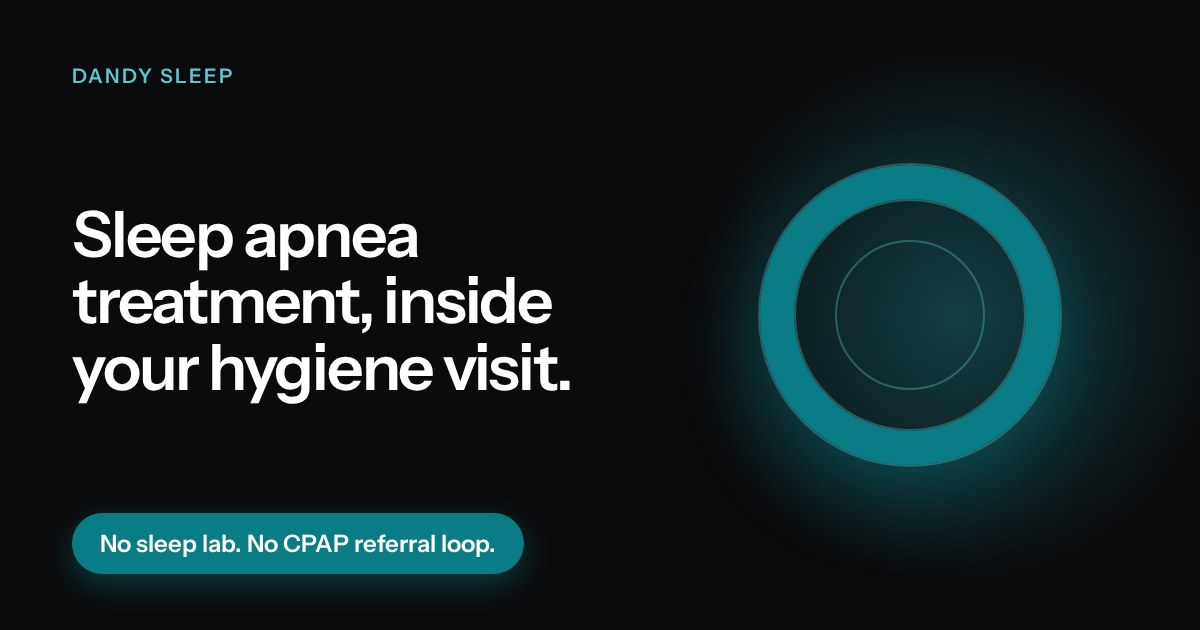
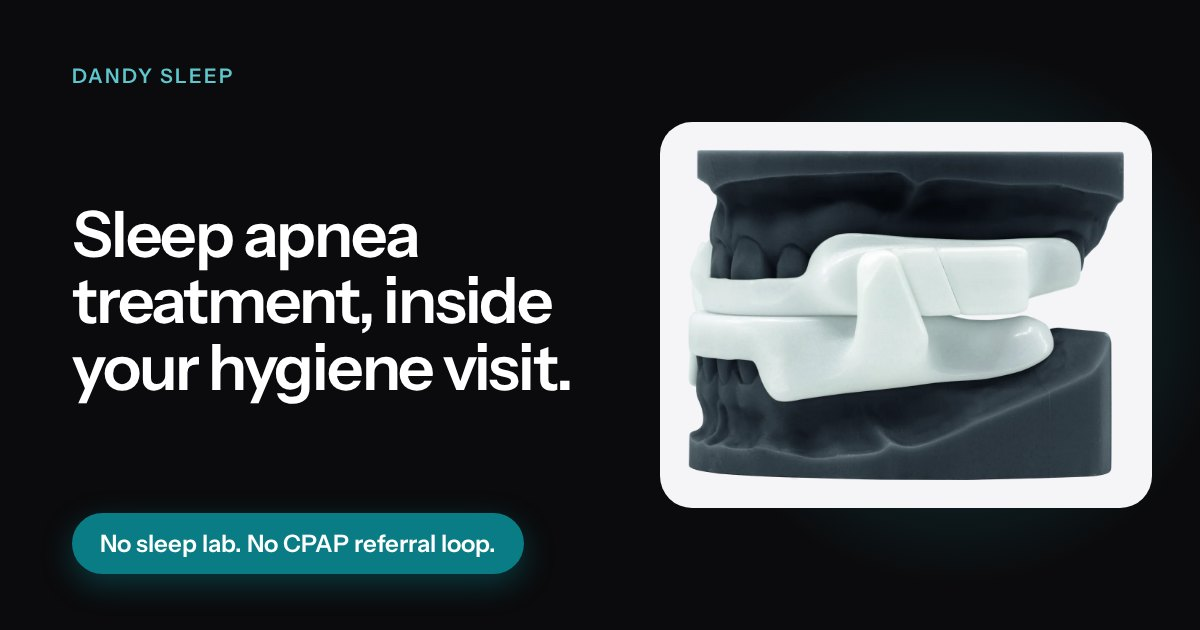
Sleep page: Clarity Sleep Ring naming, hero product image, 'Two premium nylon appliances' device section, OG image with device

Changed region(s): [[0.5242, 0.181, 0.9867, 0.8143]]

diff --git a/sleep/index.html b/sleep/index.html
@@ -5,7 +5,7 @@
 <meta name="viewport" content="width=device-width, initial-scale=1.0">
 <meta name="robots" content="noindex, nofollow">
 <title>Dandy Sleep — Sleep Apnea Treatment, Inside Your Hygiene Visit</title>
-<meta name="description" content="Screen in the chair, the patient takes a ring home for one night, a sleep physician reviews it virtually. You scan once, Dandy fabricates the appliance, you deliver and titrate.">
+<meta name="description" content="Screen in the chair, the patient takes the Clarity Sleep Ring home for one night, a sleep physician reviews it virtually. You scan once, Dandy fabricates the appliance, you deliver and titrate.">
 <link rel="icon" href="../img/favicon.svg" type="image/svg+xml">
 <meta property="og:type" content="website">
 <meta property="og:url" content="https://kristidillon.github.io/one-case/sleep/">
@@ -383,7 +383,7 @@ footer .rep{color:var(--ink);font-weight:500}
 .support-note a,.prog-support a{color:var(--accent-ink);font-weight:600;text-decoration:underline;text-underline-offset:2px}
 .chk{display:grid;grid-template-columns:1fr 1fr;gap:20px;margin-top:52px}
 @media(max-width:820px){.chk{grid-template-columns:1fr}}
-.chk>div{background:var(--ground);border-radius:24px;padding:clamp(24px,3vw,32px)}
+.chk>div{background:var(--white);border-radius:24px;padding:clamp(24px,3vw,32px)}
 .chk h3{font-size:20px}
 .chk ul{list-style:none;margin-top:14px}
 .chk li{padding:12px 0;border-top:1px solid var(--hair);font-size:16px;line-height:1.4;color:var(--ink-2)}
@@ -429,6 +429,36 @@ footer .back{display:inline-block;margin-top:10px;color:var(--accent-ink);font-w
 .hfd{margin-top:14px;font-size:13px;line-height:1.55;color:var(--muted)}
 .hfd a{display:inline-flex;align-items:center;min-height:44px;padding:0 4px;color:var(--accent-ink);font-weight:600;text-decoration:underline;text-underline-offset:2px}
 .sr-only{position:absolute;width:1px;height:1px;padding:0;margin:-1px;overflow:hidden;clip:rect(0,0,0,0);white-space:nowrap;border:0}
+
+/* hero split + devices */
+.hero-split{padding:clamp(56px,8vw,112px) 0 clamp(56px,7vw,96px)}
+.hero-grid{display:grid;grid-template-columns:1.05fr .95fr;gap:clamp(28px,4vw,56px);align-items:center}
+.hero-grid>*{min-width:0}
+.hero-split .hero-text{text-align:left}
+.hero-split h1{margin:18px 0 0;font-size:clamp(38px,5.4vw,64px)}
+.hero-split .lede{margin:22px 0 0;max-width:560px}
+.hero-split .nocap{margin:20px 0 0}
+.hero-split .cta{justify-content:flex-start}
+.hero-media{margin:0;background:var(--ground);border-radius:28px;padding:clamp(16px,2.4vw,28px)}
+.hero-media img{width:100%;height:auto}
+.hero-media figcaption{margin-top:10px;font-size:13px;color:var(--muted);text-align:center}
+@media(max-width:860px){.hero-grid{grid-template-columns:1fr}.hero-split .hero-text{text-align:center}.hero-split .lede{margin-left:auto;margin-right:auto}.hero-split .cta{justify-content:center}.hero-media{max-width:520px;margin:0 auto;width:100%}}
+.sr-only{position:absolute;width:1px;height:1px;padding:0;margin:-1px;overflow:hidden;clip:rect(0,0,0,0);white-space:nowrap;border:0}
+.devs{display:grid;grid-template-columns:1fr 1fr;gap:20px;margin-top:52px}
+@media(max-width:820px){.devs{grid-template-columns:1fr}}
+.dev{background:var(--ground);border-radius:28px;overflow:hidden;display:flex;flex-direction:column;min-width:0}
+.dev-img{padding:clamp(18px,3vw,32px) clamp(18px,3vw,32px) 0}
+.dev-img img{width:100%;height:auto;aspect-ratio:1200/880;object-fit:contain}
+.dev-body{padding:clamp(20px,3vw,32px)}
+.dev-badge{display:inline-block;margin-bottom:10px;font-size:12px;font-weight:600;letter-spacing:.06em;text-transform:uppercase;color:var(--accent-ink);background:var(--accent-soft);padding:5px 11px;border-radius:999px}
+.dev-body p{margin-top:10px;font-size:15px;color:var(--ink-2)}
+.dev-body .dev-lbl{margin-top:20px;font-size:12px;font-weight:600;letter-spacing:.08em;text-transform:uppercase;color:var(--muted)}
+.dev-body ul{list-style:none;margin-top:6px}
+.dev-body li{position:relative;padding:9px 0 9px 22px;border-top:1px solid var(--hair);font-size:15px;line-height:1.4}
+.dev-body li:first-child{border-top:0}
+.dev-body li::before{content:"";position:absolute;left:2px;top:15px;width:8px;height:8px;border-radius:50%;background:var(--accent)}
+.dev-more{margin-top:26px;text-align:center}
+.dev-more a{display:inline-flex;align-items:center;gap:6px;min-height:44px;padding:0 8px;color:var(--accent-ink);font-weight:600;text-decoration:underline;text-underline-offset:3px}
 </style>
 </head>
 <body>
@@ -439,6 +469,7 @@ footer .back{display:inline-block;margin-top:10px;color:var(--accent-ink);font-w
     <div class="nav-links">
       <a href="../">&larr; Main page</a>
       <a href="#how">How it works</a>
+      <a href="#devices">Devices</a>
       <a href="#checklist">Airway checklist</a>
       <a href="#terms">Program terms</a>
       <a href="#contact">Contact</a>
@@ -448,11 +479,12 @@ footer .back{display:inline-block;margin-top:10px;color:var(--accent-ink);font-w
 </nav>
 
 <!-- ================= HERO ================= -->
-<header class="hero center" id="top">
-  <div class="wrap">
+<header class="hero hero-split" id="top">
+  <div class="wrap hero-grid">
+   <div class="hero-text">
     <p class="eyebrow rv">Dandy Sleep</p>
     <h1 class="rv d1">Sleep apnea treatment, inside your hygiene visit.</h1>
-    <p class="lede rv d2">Screen in the chair. Patient takes a ring home for one night. A sleep physician reviews it virtually. You scan once, Dandy fabricates the appliance, you deliver and titrate.</p>
+    <p class="lede rv d2">Screen in the chair. Patient takes the Clarity Sleep Ring home for one night. A sleep physician reviews it virtually. You scan once, Dandy fabricates the appliance, you deliver and titrate.</p>
     <p class="nocap rv d2">No sleep lab. No CPAP referral loop. No capital equipment.</p>
     <p class="seen rv d2">Your team is already seeing the signs every day.</p>
     <div class="cta rv d3">
@@ -461,6 +493,11 @@ footer .back{display:inline-block;margin-top:10px;color:var(--accent-ink);font-w
         <svg viewBox="0 0 16 16" fill="none" stroke="currentColor" stroke-width="1.8" stroke-linecap="round" stroke-linejoin="round"><path d="M3 8h10M9 4l4 4-4 4"/></svg>
       </a>
     </div>
+   </div>
+   <figure class="hero-media rv d2">
+     <img src="../img/sleep-freedom-mad.webp" width="1200" height="906" fetchpriority="high" decoding="async" alt="Dandy Freedom Nylon MAD, a white metal-free mandibular advancement device, shown on a dental model">
+     <figcaption>Freedom Nylon MAD &middot; one of two premium nylon appliances</figcaption>
+   </figure>
   </div>
 </header>
 
@@ -476,9 +513,9 @@ footer .back{display:inline-block;margin-top:10px;color:var(--accent-ink);font-w
       <div class="hw rv">
         <div class="hw-main">
           <div class="hw-n">1</div>
-          <div><p class="hw-when">When your kit arrives</p><h3>Kit arrives</h3><p class="hw-desc">Patient-facing materials go up in the office (includes a sleep test deposit waiver). Sleep Rings are ready to send home.</p></div>
+          <div><p class="hw-when">When your kit arrives</p><h3>Kit arrives</h3><p class="hw-desc">Patient-facing materials go up in the office (includes a sleep test deposit waiver). Clarity Sleep Rings are ready to send home.</p></div>
         </div>
-        <div class="hw-res"><p class="hw-lbl">Dandy gives you</p><ul><li><b>Patient materials</b><span>Informational materials for display and handout; includes sleep test deposit waiver.</span></li><li><b>Sleep Rings</b><span>How to use your home sleep tests.</span></li></ul></div>
+        <div class="hw-res"><p class="hw-lbl">Dandy gives you</p><ul><li><b>Patient materials</b><span>Informational materials for display and handout; includes sleep test deposit waiver.</span></li><li><b>Clarity Sleep Rings</b><span>How to use your home sleep tests.</span></li></ul></div>
       </div>
       <div class="hw rv">
         <div class="hw-main">
@@ -520,8 +557,49 @@ footer .back{display:inline-block;margin-top:10px;color:var(--accent-ink);font-w
   </div>
 </section>
 
+<!-- ================= DEVICES ================= -->
+<section id="devices">
+  <div class="wrap">
+    <div class="narrow center">
+      <p class="eyebrow rv">Premium mandibular advancement devices</p>
+      <h2 class="rv d1">Two premium nylon appliances.</h2>
+      <p class="lede rv d2">Two premium options so you can personalize treatment for every patient. Both feature 0.5 mm incremental adjustments and lightweight, metal-free construction.</p>
+    </div>
+    <div class="devs">
+      <article class="dev rv">
+        <div class="dev-img"><img src="../img/sleep-preferred-mad.webp" width="1200" height="838" loading="lazy" decoding="async" alt="Dandy Preferred Nylon MAD, a white two-piece traction-style mandibular advancement device, shown on a dental model"></div>
+        <div class="dev-body">
+          <span class="dev-badge">Best fit for most patients</span>
+          <h3>Preferred Nylon MAD</h3>
+          <p>The Preferred Nylon MAD is a traction-style advancement system designed to encourage mouth closure during sleep. It supports nasal breathing while minimizing mandibular drop. The lightweight two-piece nylon construction offers exceptional comfort with a completely metal-free design and minimal bulk.</p>
+          <p class="dev-lbl">Recommended for patients with</p>
+          <ul>
+            <li>Mouth breathing tendencies</li>
+            <li>TMJ sensitivity</li>
+            <li>A need for a durable nylon alternative with greater titration range and adjustability</li>
+          </ul>
+        </div>
+      </article>
+      <article class="dev rv d1">
+        <div class="dev-img"><img src="../img/sleep-freedom-mad.webp" width="1200" height="906" loading="lazy" decoding="async" alt="Dandy Freedom Nylon MAD, a white dorsal-fin push-style mandibular advancement device, shown on a dental model"></div>
+        <div class="dev-body">
+          <h3>Freedom Nylon MAD</h3>
+          <p>The dorsal fin push-style mechanism on the Freedom Nylon MAD allows for greater mandibular opening freedom during sleep. This design maintains effective advancement and precise titration capabilities. The lightweight, metal-free nylon design improves patient comfort and allows for easier speaking and drinking compared to traditional appliances.</p>
+          <p class="dev-lbl">Recommended for patients with</p>
+          <ul>
+            <li>A desire for greater jaw mobility</li>
+            <li>The need for posterior comfort</li>
+            <li>A preference for simplified adjustment capabilities</li>
+          </ul>
+        </div>
+      </article>
+    </div>
+    <p class="dev-more rv"><a href="https://www.meetdandy.com/labs/sleep-device?utm_source=one-case&amp;utm_medium=landing" target="_blank" rel="noopener">See the devices on meetdandy.com <span aria-hidden="true">&#8599;</span><span class="sr-only"> (opens in a new tab)</span></a></p>
+  </div>
+</section>
+
 <!-- ================= CHECKLIST ================= -->
-<section id="checklist">
+<section class="band" id="checklist">
   <div class="wrap">
     <div class="narrow center">
       <p class="eyebrow rv">What your hygienist runs</p>
@@ -556,7 +634,7 @@ footer .back{display:inline-block;margin-top:10px;color:var(--accent-ink);font-w
       </div>
     </div>
     <div class="says rv">
-      <div class="says-h"><p class="step-k">3 &middot; The ring</p><h3>The Solution</h3><p>Offer a low-friction path to clarity. Patients want to feel better; you are providing the tool to get them there.</p></div>
+      <div class="says-h"><p class="step-k">3 &middot; The Clarity Sleep Ring</p><h3>The Solution</h3><p>Offer a low-friction path to clarity. Patients want to feel better; you are providing the tool to get them there.</p></div>
       <div><p class="k">The pitch</p><blockquote>&ldquo;We can screen this easily. You&rsquo;ll take home a small ring to wear while you sleep for one night. A sleep physician reviews the data virtually to see if a custom device&mdash;a comfortable, quiet alternative to a CPAP&mdash;could help you finally wake up rested.&rdquo;</blockquote></div>
       <div><p class="k">The action</p><blockquote>&ldquo;Would you like to take the ring home today?&rdquo;</blockquote></div>
     </div>
@@ -564,7 +642,7 @@ footer .back{display:inline-block;margin-top:10px;color:var(--accent-ink);font-w
 </section>
 
 <!-- ================= PROGRAM TERMS ================= -->
-<section class="band" id="terms">
+<section id="terms">
   <div class="wrap">
     <div class="narrow center">
       <p class="eyebrow rv">Two program options</p>
